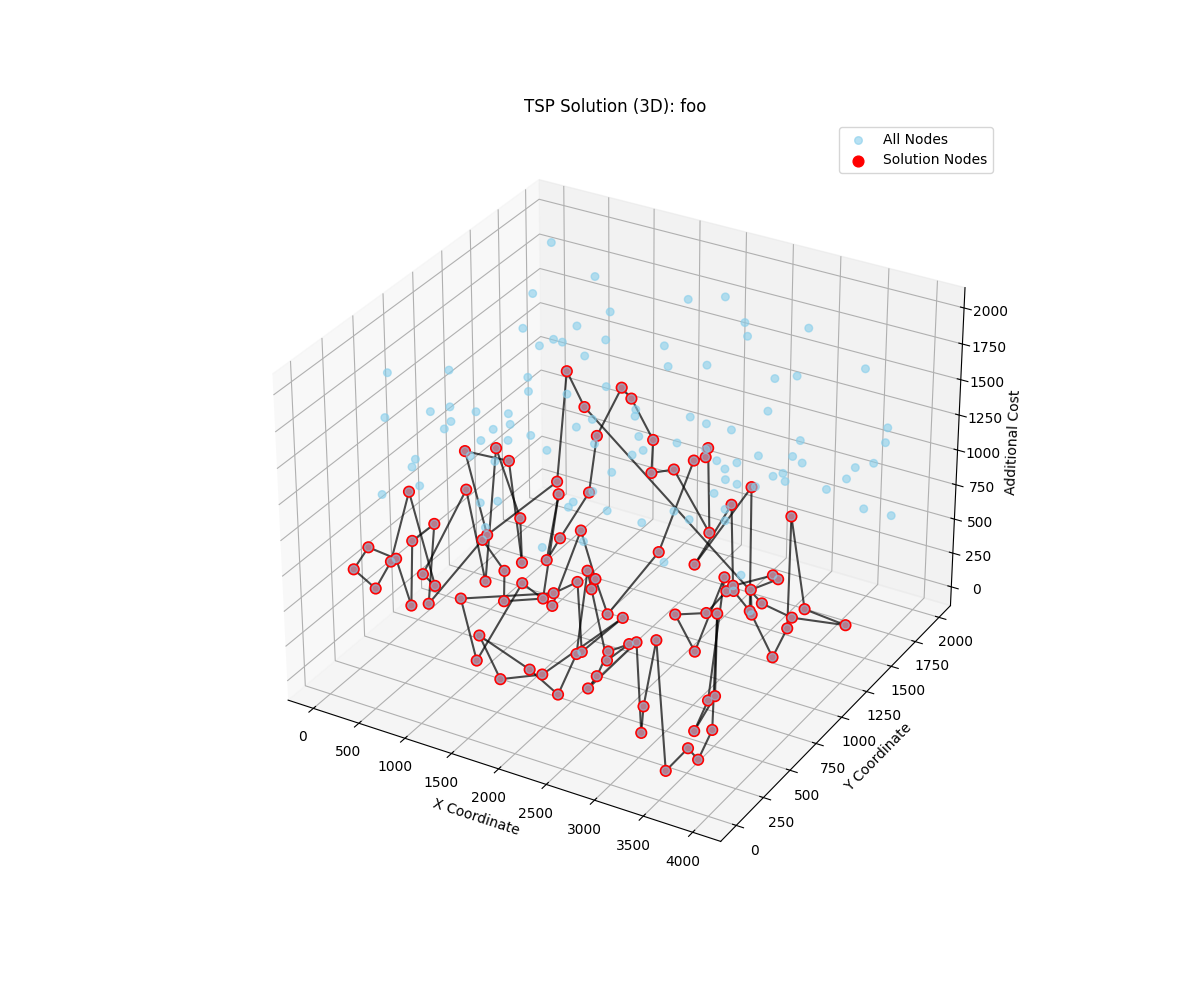
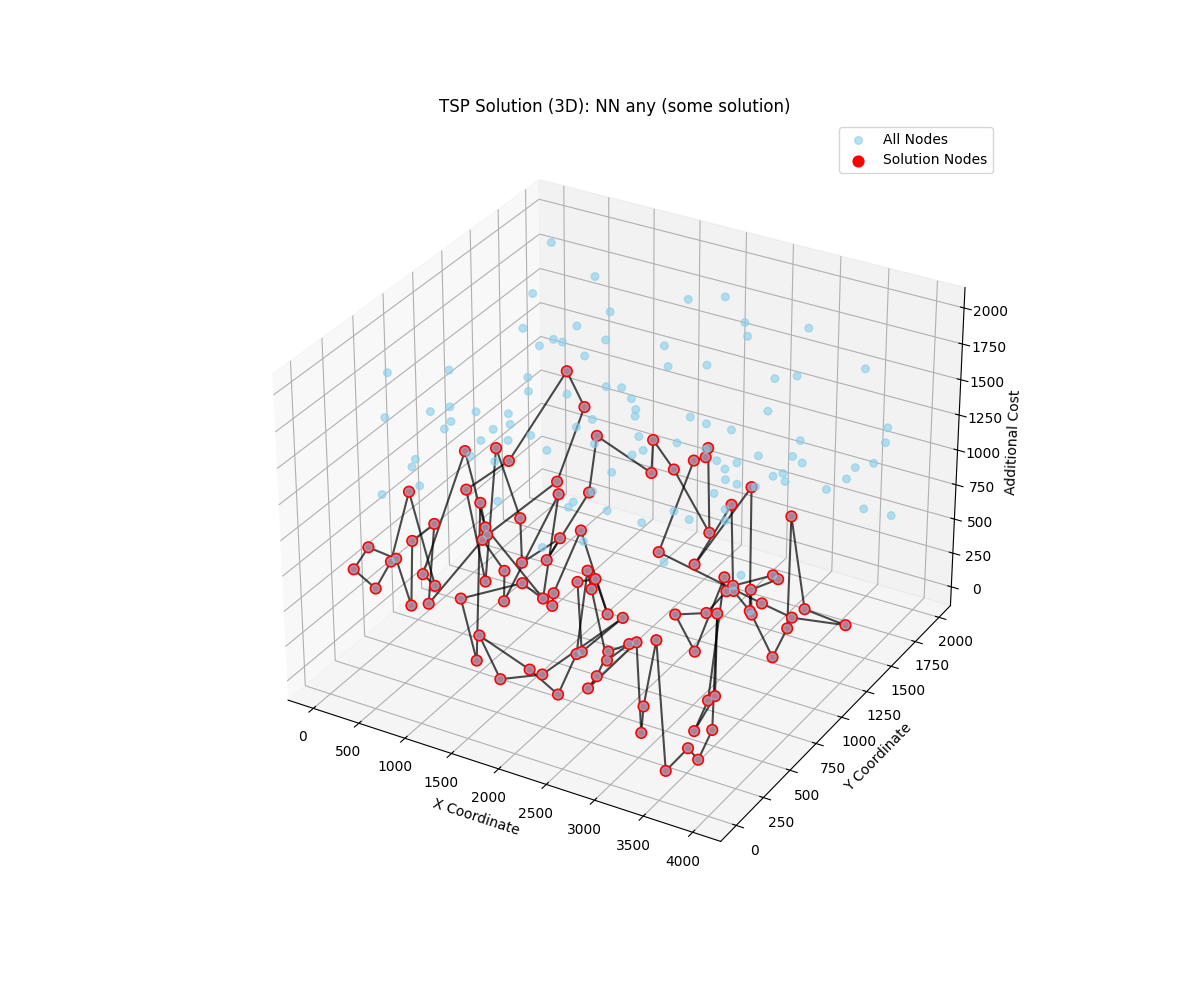
3d visualization fixup

diff --git a/visualization3d.py b/visualization3d.py
@@ -5,4 +5,4 @@ from assignment1.nearest_neighbor_at_any import nearest_neighbor_at_any_solve
 if __name__ == "__main__":
     tsp = TSP.load_tspa()
     solution = nearest_neighbor_at_any_solve(tsp)
-    tsp.visualize_solution3d(solution, 'foo', 'experiments_results-3d-nn-any.png')
+    tsp.visualize_solution3d(solution, 'NN any (some solution)', 'experiments_results-3d-nn-any.png')
